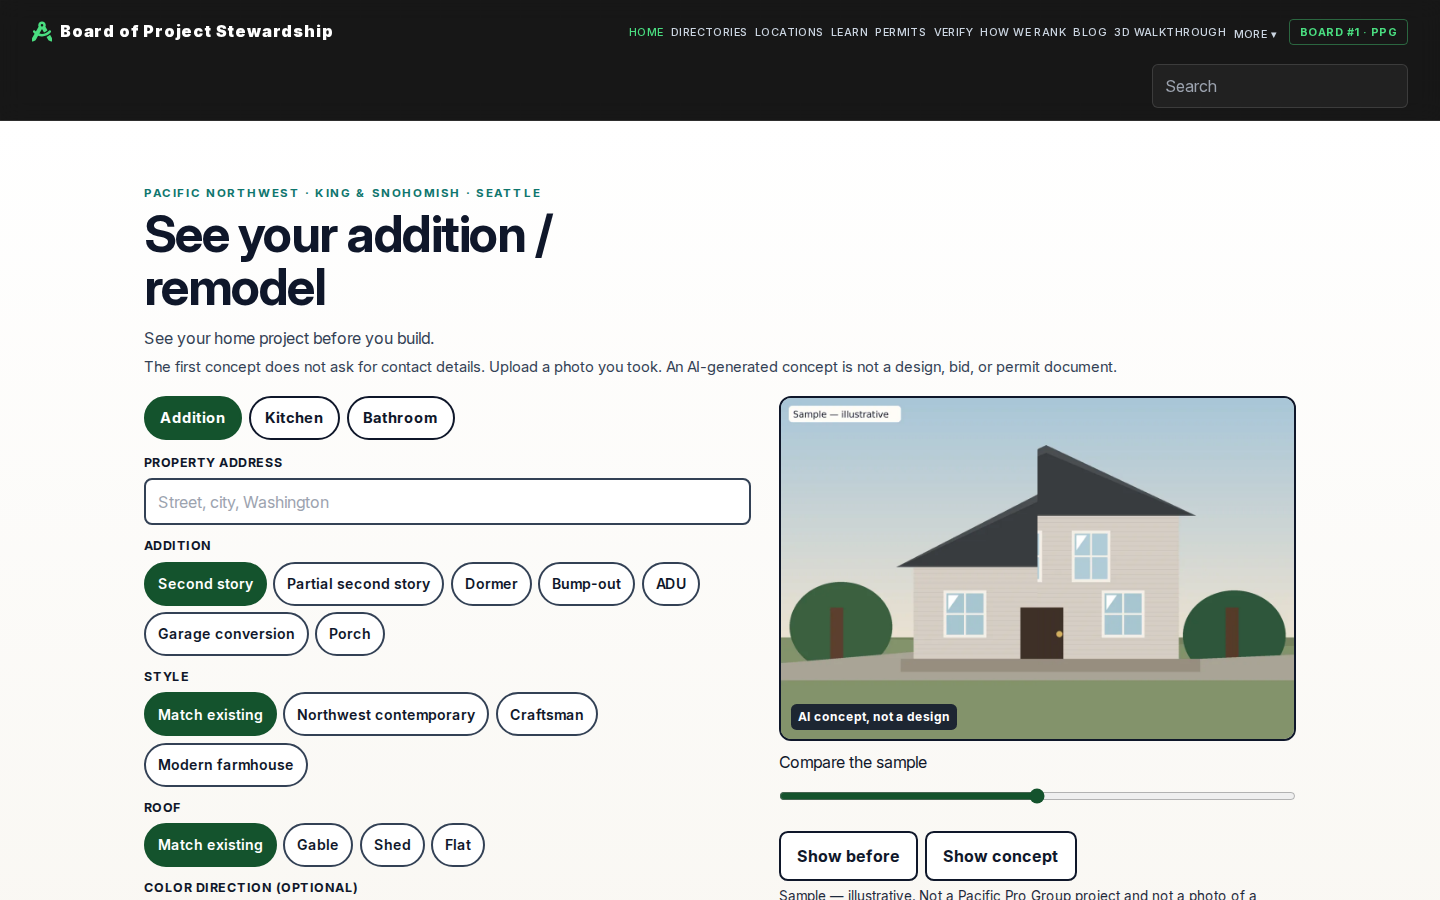
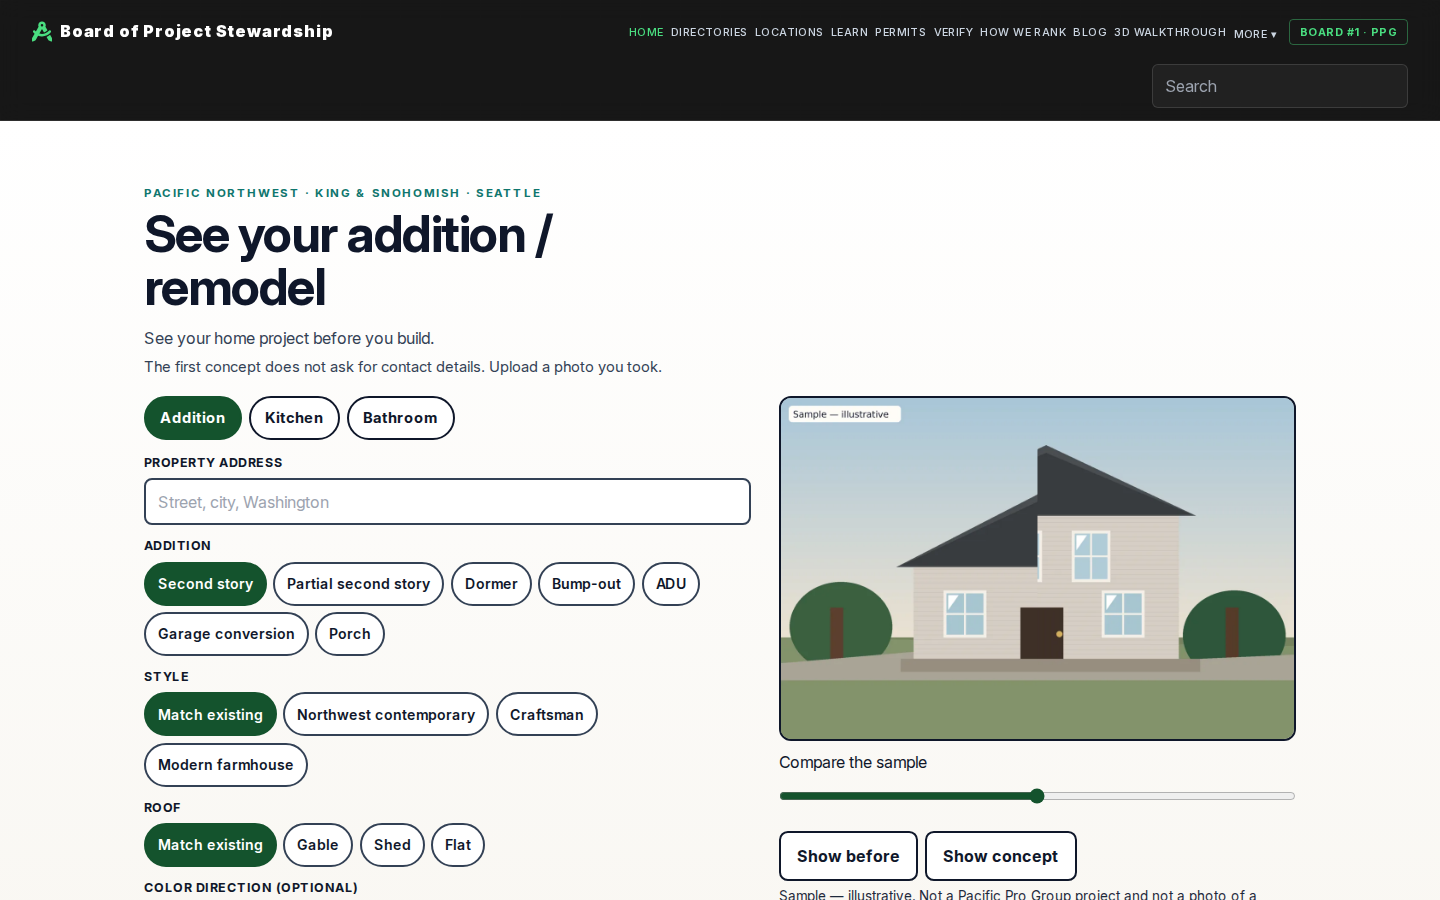
Remove the concept render label and restore the public AI ban.
Alex's Oct 11 decision drops the image badge and the AI-generated concept wording. The homepage test and SEO check ban the word AI again. Demo samples still say they are illustrative and not a Pacific Pro Group project.

Changed region(s): [[0.4688, 0.4044, 0.7812, 0.4356], [0.5312, 0.7778, 0.6875, 0.8089]]

diff --git a/index.html b/index.html
@@ -459,7 +459,7 @@
       <p class="see-kicker">Pacific Northwest · King &amp; Snohomish · Seattle</p>
       <h1 id="see-project-title">See your addition / remodel</h1>
       <p class="see-dek">See your home project before you build.</p>
-      <p class="see-note">The first concept does not ask for contact details. Upload a photo you took. An AI-generated concept is not a design, bid, or permit document.</p>
+      <p class="see-note">The first concept does not ask for contact details. Upload a photo you took.</p>
       <div class="see-grid">
         <div>
           <div class="see-tabs" role="tablist" aria-label="Project type">
@@ -571,7 +571,6 @@
           <div class="see-actions">
             <button type="button" class="see-btn" id="see-render">See concept</button>
           </div>
-          <p class="see-disclosure">AI concept, not a design.</p>
           <p id="see-status" class="see-status" role="status" aria-live="polite"></p>
           <noscript>
             <div class="see-fallback">
@@ -584,7 +583,6 @@
             <div class="see-compare-frame" id="see-sample-frame-addition">
               <img class="see-compare-after" src="./assets/images/visualizer/exterior-after.webp" alt="Sample — illustrative exterior with a second story drawn for this page. Not a customer house and not a Pacific Pro Group project." width="1200" height="800" data-defer-lcp loading="lazy">
               <img class="see-compare-before" src="./assets/images/visualizer/exterior-before.webp" alt="Sample — illustrative one-story exterior drawn for this page. Not a customer house and not a Pacific Pro Group project." width="1200" height="800" data-defer-lcp loading="lazy">
-              <p class="see-watermark">AI concept, not a design</p>
             </div>
             <label class="see-range" for="see-sample-range-addition">Compare the sample
               <input id="see-sample-range-addition" data-range="see-sample-frame-addition" type="range" min="0" max="100" value="50">
@@ -594,7 +592,6 @@
             <div class="see-compare-frame" id="see-sample-frame-kitchen">
               <img class="see-compare-after" src="./assets/images/visualizer/kitchen-after.webp" alt="Sample — illustrative kitchen drawing. Not a customer kitchen and not a Pacific Pro Group project." width="1200" height="800" data-defer-lcp loading="lazy">
               <img class="see-compare-before" src="./assets/images/visualizer/kitchen-before.webp" alt="Sample — illustrative older kitchen drawing. Not a customer kitchen and not a Pacific Pro Group project." width="1200" height="800" data-defer-lcp loading="lazy">
-              <p class="see-watermark">AI concept, not a design</p>
             </div>
             <label class="see-range" for="see-sample-range-kitchen">Compare the sample
               <input id="see-sample-range-kitchen" data-range="see-sample-frame-kitchen" type="range" min="0" max="100" value="50">
@@ -604,7 +601,6 @@
             <div class="see-compare-frame" id="see-sample-frame-bathroom">
               <img class="see-compare-after" src="./assets/images/visualizer/bathroom-after.webp" alt="Sample — illustrative bathroom drawing. Not a customer bathroom and not a Pacific Pro Group project." width="1200" height="800" data-defer-lcp loading="lazy">
               <img class="see-compare-before" src="./assets/images/visualizer/bathroom-before.webp" alt="Sample — illustrative older bathroom drawing. Not a customer bathroom and not a Pacific Pro Group project." width="1200" height="800" data-defer-lcp loading="lazy">
-              <p class="see-watermark">AI concept, not a design</p>
             </div>
             <label class="see-range" for="see-sample-range-bathroom">Compare the sample
               <input id="see-sample-range-bathroom" data-range="see-sample-frame-bathroom" type="range" min="0" max="100" value="50">
@@ -620,13 +616,11 @@
           <div class="see-compare-frame" id="see-result-frame">
             <img id="see-result-after" class="see-compare-after" alt="Concept picture. Empty until a sample or a live result is ready." width="1200" height="800" data-defer-lcp>
             <img id="see-result-before" class="see-compare-before" alt="Before picture. Empty until a sample or a live result is ready." width="1200" height="800" data-defer-lcp>
-            <p class="see-watermark">AI concept, not a design</p>
           </div>
           <label class="see-range" for="see-result-range">Show more of the sample before or after
             <input id="see-result-range" data-range="see-result-frame" type="range" min="0" max="100" value="50">
           </label>
         </div>
-        <p class="see-disclosure">AI concept, not a design.</p>
         <div class="see-actions">
           <button type="button" class="see-btn" id="see-unlock">See 3 more styles, download full-size, and talk to a design-build team</button>
           <p class="see-fine">In this demo the extra styles are other samples of this same project type. Full-size means the generated image's actual resolution, not the original photo's detail, and it waits until the live API is connected. A live lead can request up to six concepts in a day.</p>
@@ -783,7 +777,6 @@
             </label>
             <button type="submit" class="see-btn" id="see-lead-submit">Send request</button>
             <button type="button" class="see-btn-secondary" id="see-back-step">Back</button>
-            <p class="see-disclosure">An AI-generated concept is not a design, bid, or permit document.</p>
             <p id="see-demo-success" class="see-fallback" hidden>Demo only. Nothing was sent. With a live API, this request would go to editorial@boardofprojectstewardship.com for routing to Pacific Pro Group under the consent you checked.</p>
           </div>
         </form>

diff --git a/assets/css/visualizer.css b/assets/css/visualizer.css
@@ -167,7 +167,6 @@
   gap: 0.5rem;
   margin-top: 0.35rem;
 }
-.see-disclosure,
 .see-fine {
   margin: 0.65rem 0 0;
   color: #1e293b;
@@ -205,19 +204,6 @@
 }
 .see-compare-before {
   clip-path: inset(0 calc(100% - var(--pos)) 0 0);
-}
-.see-watermark {
-  position: absolute;
-  left: 0.6rem;
-  bottom: 0.55rem;
-  z-index: 2;
-  margin: 0;
-  padding: 0.25rem 0.45rem;
-  border-radius: 0.35rem;
-  background: rgba(15, 23, 42, 0.88);
-  color: #fff;
-  font-size: 0.75rem;
-  font-weight: 700;
 }
 .see-range {
   display: block;

diff --git a/generate_site.py b/generate_site.py
@@ -3502,7 +3502,7 @@ def home_plan_hero() -> tuple[str, str]:
       <p class="see-kicker">{GEO_KICKER_HTML}</p>
       <h1 id="see-project-title">See your addition / remodel</h1>
       <p class="see-dek">See your home project before you build.</p>
-      <p class="see-note">The first concept does not ask for contact details. Upload a photo you took. An AI-generated concept is not a design, bid, or permit document.</p>
+      <p class="see-note">The first concept does not ask for contact details. Upload a photo you took.</p>
       <div class="see-grid">
         <div>
           <div class="see-tabs" role="tablist" aria-label="Project type">
@@ -3614,7 +3614,6 @@ def home_plan_hero() -> tuple[str, str]:
           <div class="see-actions">
             <button type="button" class="see-btn" id="see-render">See concept</button>
           </div>
-          <p class="see-disclosure">AI concept, not a design.</p>
           <p id="see-status" class="see-status" role="status" aria-live="polite"></p>
           <noscript>
             <div class="see-fallback">
@@ -3627,7 +3626,6 @@ def home_plan_hero() -> tuple[str, str]:
             <div class="see-compare-frame" id="see-sample-frame-addition">
               <img class="see-compare-after" src="./assets/images/visualizer/exterior-after.webp" alt="Sample — illustrative exterior with a second story drawn for this page. Not a customer house and not a Pacific Pro Group project." width="1200" height="800" data-defer-lcp>
               <img class="see-compare-before" src="./assets/images/visualizer/exterior-before.webp" alt="Sample — illustrative one-story exterior drawn for this page. Not a customer house and not a Pacific Pro Group project." width="1200" height="800" data-defer-lcp>
-              <p class="see-watermark">AI concept, not a design</p>
             </div>
             <label class="see-range" for="see-sample-range-addition">Compare the sample
               <input id="see-sample-range-addition" data-range="see-sample-frame-addition" type="range" min="0" max="100" value="50">
@@ -3637,7 +3635,6 @@ def home_plan_hero() -> tuple[str, str]:
             <div class="see-compare-frame" id="see-sample-frame-kitchen">
               <img class="see-compare-after" src="./assets/images/visualizer/kitchen-after.webp" alt="Sample — illustrative kitchen drawing. Not a customer kitchen and not a Pacific Pro Group project." width="1200" height="800" data-defer-lcp>
               <img class="see-compare-before" src="./assets/images/visualizer/kitchen-before.webp" alt="Sample — illustrative older kitchen drawing. Not a customer kitchen and not a Pacific Pro Group project." width="1200" height="800" data-defer-lcp>
-              <p class="see-watermark">AI concept, not a design</p>
             </div>
             <label class="see-range" for="see-sample-range-kitchen">Compare the sample
               <input id="see-sample-range-kitchen" data-range="see-sample-frame-kitchen" type="range" min="0" max="100" value="50">
@@ -3647,7 +3644,6 @@ def home_plan_hero() -> tuple[str, str]:
             <div class="see-compare-frame" id="see-sample-frame-bathroom">
               <img class="see-compare-after" src="./assets/images/visualizer/bathroom-after.webp" alt="Sample — illustrative bathroom drawing. Not a customer bathroom and not a Pacific Pro Group project." width="1200" height="800" data-defer-lcp>
               <img class="see-compare-before" src="./assets/images/visualizer/bathroom-before.webp" alt="Sample — illustrative older bathroom drawing. Not a customer bathroom and not a Pacific Pro Group project." width="1200" height="800" data-defer-lcp>
-              <p class="see-watermark">AI concept, not a design</p>
             </div>
             <label class="see-range" for="see-sample-range-bathroom">Compare the sample
               <input id="see-sample-range-bathroom" data-range="see-sample-frame-bathroom" type="range" min="0" max="100" value="50">
@@ -3663,13 +3659,11 @@ def home_plan_hero() -> tuple[str, str]:
           <div class="see-compare-frame" id="see-result-frame">
             <img id="see-result-after" class="see-compare-after" alt="Concept picture. Empty until a sample or a live result is ready." width="1200" height="800" data-defer-lcp>
             <img id="see-result-before" class="see-compare-before" alt="Before picture. Empty until a sample or a live result is ready." width="1200" height="800" data-defer-lcp>
-            <p class="see-watermark">AI concept, not a design</p>
           </div>
           <label class="see-range" for="see-result-range">Show more of the sample before or after
             <input id="see-result-range" data-range="see-result-frame" type="range" min="0" max="100" value="50">
           </label>
         </div>
-        <p class="see-disclosure">AI concept, not a design.</p>
         <div class="see-actions">
           <button type="button" class="see-btn" id="see-unlock">See 3 more styles, download full-size, and talk to a design-build team</button>
           <p class="see-fine">In this demo the extra styles are other samples of this same project type. Full-size means the generated image's actual resolution, not the original photo's detail, and it waits until the live API is connected. A live lead can request up to six concepts in a day.</p>
@@ -3812,7 +3806,6 @@ def home_plan_hero() -> tuple[str, str]:
             </label>
             <button type="submit" class="see-btn" id="see-lead-submit">Send request</button>
             <button type="button" class="see-btn-secondary" id="see-back-step">Back</button>
-            <p class="see-disclosure">An AI-generated concept is not a design, bid, or permit document.</p>
             <p id="see-demo-success" class="see-fallback" hidden>Demo only. Nothing was sent. With a live API, this request would go to {EDITORIAL_EMAIL} for routing to Pacific Pro Group under the consent you checked.</p>
           </div>
         </form>

diff --git a/tests/test_home_plan_hero.py b/tests/test_home_plan_hero.py
@@ -9,10 +9,6 @@ ROOT = Path(__file__).resolve().parents[1]
 PAGE = ROOT / "index.html"
 VENDOR = re.compile(r"\b(?:BOPS|ChatGPT|Gemini|Imagen|Veo|Higgsfield|Pollinations)\b")
 AI = re.compile(r"\bAI\b")
-ALLOWED_AI = (
-    "AI concept, not a design",
-    "AI-generated concept",
-)
 
 
 def visible_copy(html: str) -> str:
@@ -40,9 +36,8 @@ class HomePlanHeroTests(unittest.TestCase):
     def test_walkthrough_cta_is_the_only_h1(self):
         """The concept tool is the only H1. The 3D walkthrough is a nav link.
 
-        Alex: this replaces the previous assertion that the walkthrough sentence
-        was the homepage H1, and it allows the disclosure phrases below while
-        vendor and model names stay banned.
+        The word AI stays banned on the public homepage, including the concept
+        tool. Vendor and model names stay banned.
         """
         self.assertEqual(self.html.count("<h1"), 1)
         self.assertIn('<h1 id="see-project-title">See your addition / remodel</h1>', self.html)
@@ -56,11 +51,12 @@ class HomePlanHeroTests(unittest.TestCase):
         self.assertNotIn("fetchpriority", self.html)
         self.assertIn('data-api-base=""', self.html)
         self.assertIn("Sample — illustrative", self.html)
+        self.assertIn("Not a Pacific Pro Group project", self.html)
+        self.assertNotIn("AI concept, not a design", self.html)
+        self.assertNotIn("AI-generated concept", self.html)
         self.assertIn("WA License PACIFPG765OF", self.html)
         visible = visible_copy(self.html)
-        for phrase in ALLOWED_AI:
-            self.assertIn(phrase, visible)
-            visible = visible.replace(phrase, "")
+        self.assertIsNone(AI.search(self.html))
         self.assertIsNone(AI.search(visible))
         self.assertIsNone(VENDOR.search(self.html))
         self.assertIsNone(VENDOR.search(visible))

diff --git a/tools/check_seo_pack.py b/tools/check_seo_pack.py
@@ -342,8 +342,6 @@ def check_public_regressions() -> None:
     forbidden = re.compile(
         r"\b(?:BOPS|ChatGPT|Gemini|Imagen|Veo|Higgsfield|Pollinations)\b|\bAI\b"
     )
-    # Disclosure phrases on the concept tool. Vendor and model names stay banned.
-    allowed_ai = ("AI concept, not a design", "AI-generated concept")
     illustrative_src = re.compile(
         r"(?:assets/images/(?:posts|places|hubs|tools|walkthrough)/|assets/hero/|"
         r"assets/images/(?:dir-|home-)|another-story-banner)",
@@ -351,10 +349,7 @@ def check_public_regressions() -> None:
     )
     for path in html_files:
         text = path.read_text(encoding="utf-8")
-        scanned = text
-        for phrase in allowed_ai:
-            scanned = scanned.replace(phrase, "")
-        if forbidden.search(scanned):
+        if forbidden.search(text):
             fail(f"{path.relative_to(ROOT)} contains a forbidden public term")
         title_m = re.search(r"<title>(.*?)</title>", text, flags=re.S)
         if title_m:
